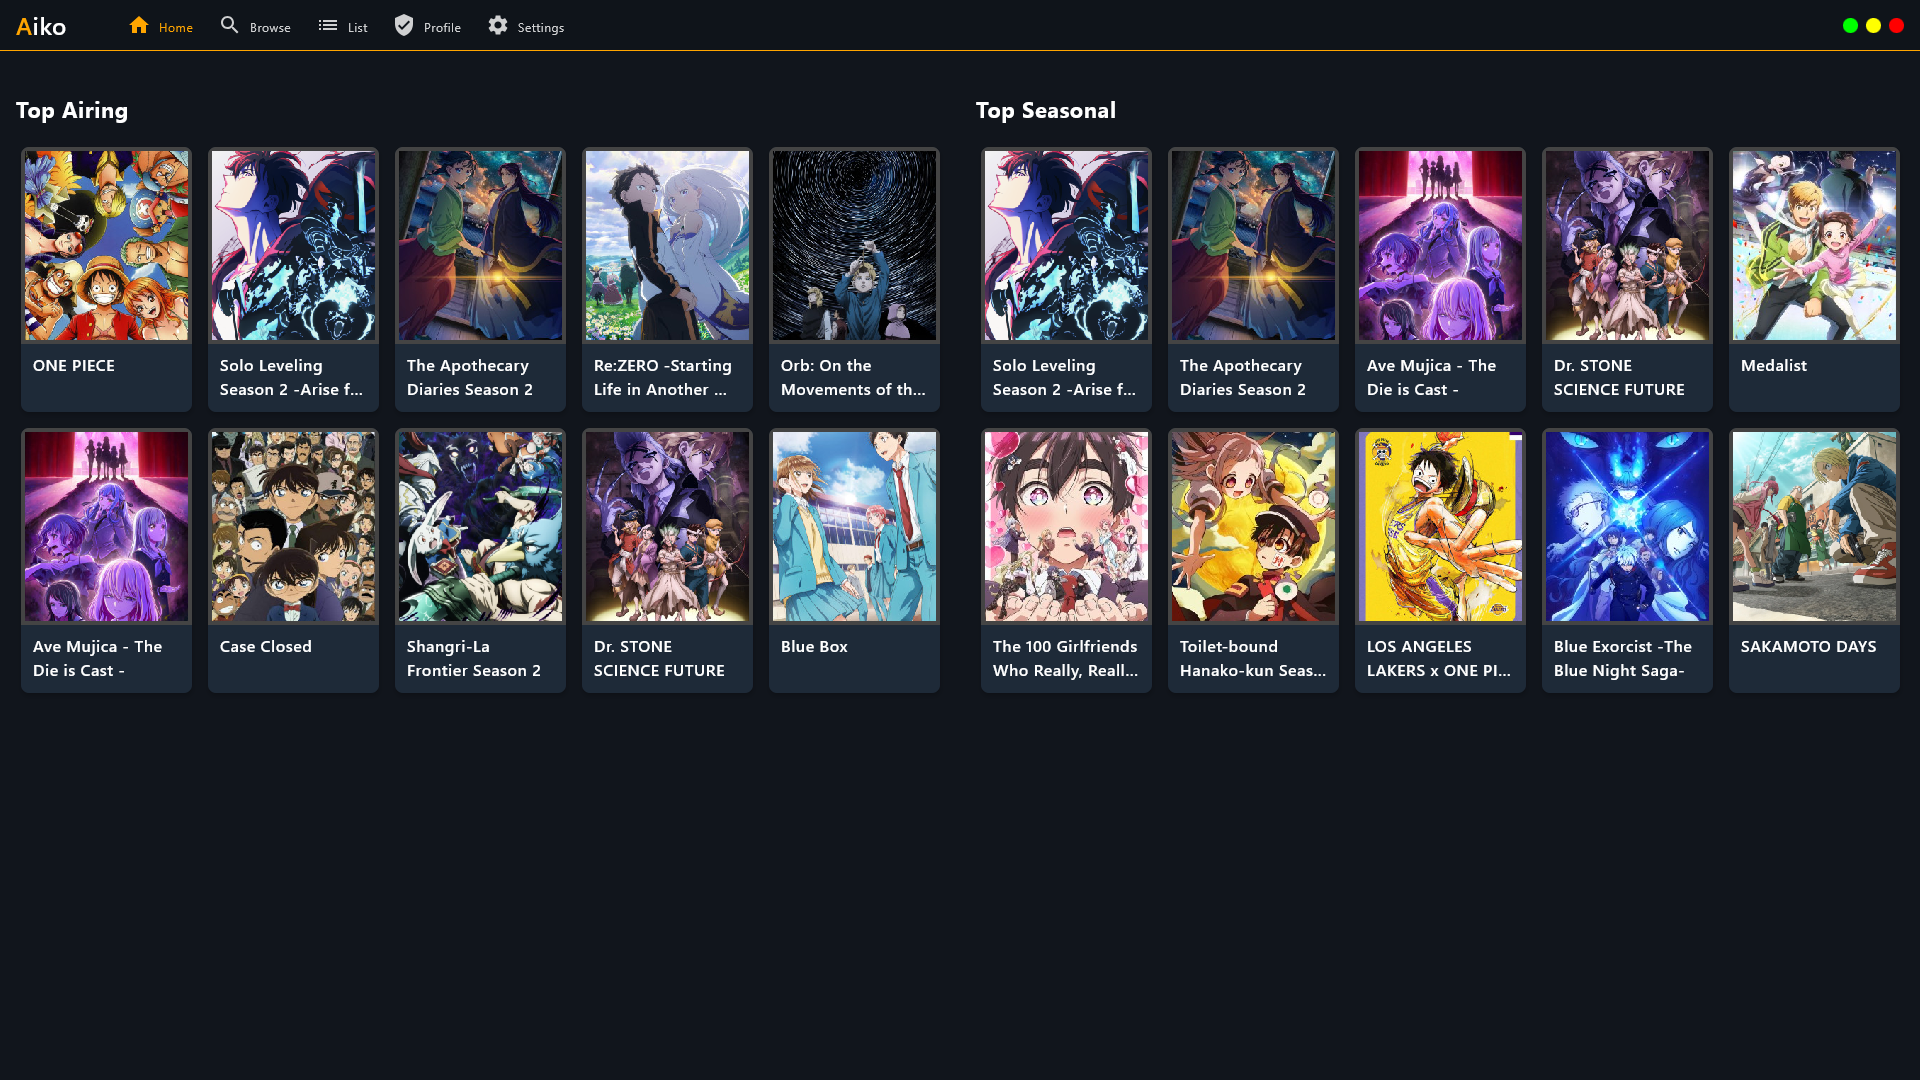
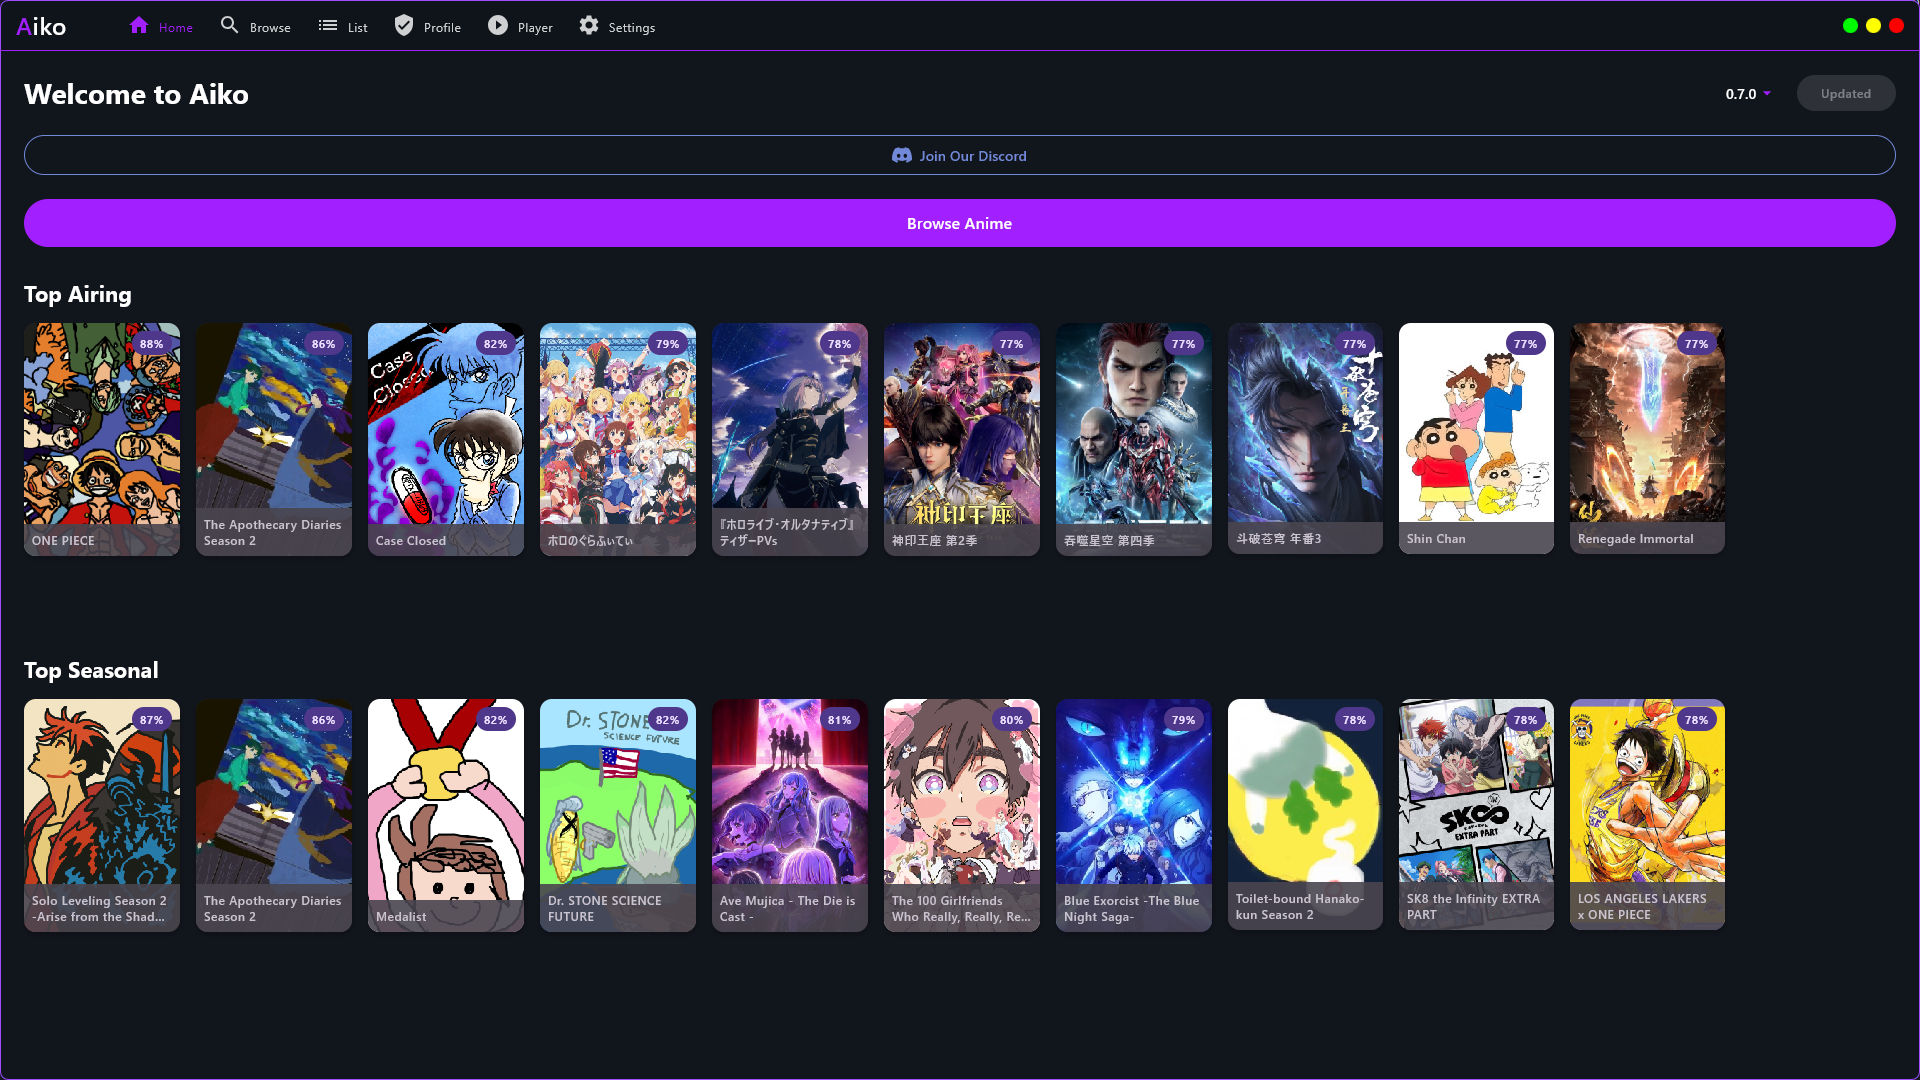
GENERAL: updated screenshots

diff --git a/README.md b/README.md
@@ -56,6 +56,12 @@ _(Only as self-built for now, a until stable version is achieved and then publis
    ``` 
 
 ## Screenshots
+
+### Home Screen
 ![Screenshot](docs/github/homescreen.png)
-![Screenshot](docs/github/browse.png)
-![Screenshot](docs/github/settings.png)
+
+### Browse Screen
+![Screenshot](docs/github/browsescreen.png)
+
+### Player Screen
+![Screenshot](docs/github/playerscreen.png)
